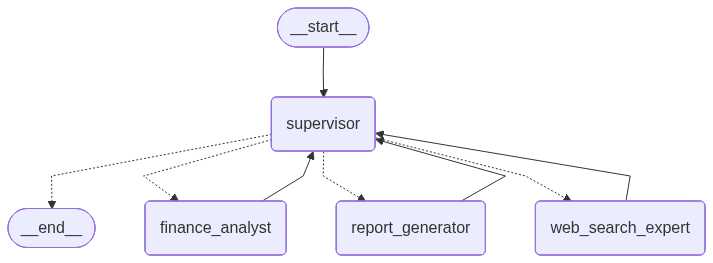
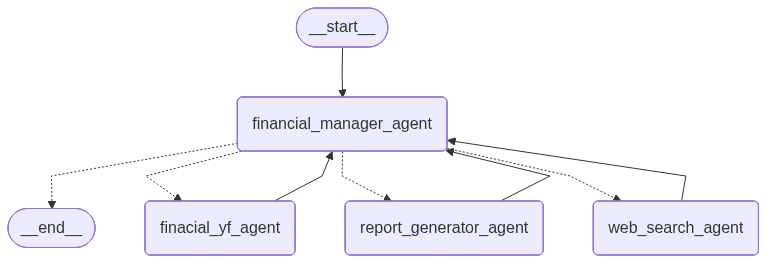
Superior-Agent

diff --git a/src/agent/agent.py b/src/agent/agent.py
@@ -2,6 +2,7 @@ from langchain_anthropic import ChatAnthropic
 # from langchain_ollama import ChatOllama
 from dotenv import load_dotenv
 from langgraph_supervisor import create_supervisor
+from langchain_core.runnables.graph import CurveStyle, MermaidDrawMethod, NodeStyles
 from langchain.agents import create_agent
 import os
 
@@ -54,25 +55,24 @@ model = ChatAnthropic(model=os.getenv("LLM_CHOICE"))
 # model = ChatOllama(model="qwen3:0.6b", temperature=0) # not better tool calling
 
 # Create specialized agents
-
 web_search_agent = create_agent(
     model=model,
     tools=[web_search_news],
-    name="web_search_expert",
+    name="web_search_agent",
     system_prompt=WEB_SEARCH_AGENT_PROMPT,
 )
 
 yahoo_finance_agent = create_agent(
     model=model,
     tools=[get_stock_price, get_stock_performance, get_financial_metrics],
-    name="finance_analyst",
+    name="finacial_yf_agent",
     system_prompt=YAHOO_FINANCE_AGENT_PROMPT,
 )
 
 report_generator_agent = create_agent(
     model=model,
     tools=[save_report_to_file],
-    name="report_generator",
+    name="report_generator_agent",
     system_prompt=REPORT_GENERATOR_AGENT_PROMPT,
 )
 
@@ -80,10 +80,28 @@ report_generator_agent = create_agent(
 workflow = create_supervisor(
     agents=[web_search_agent, yahoo_finance_agent, report_generator_agent],
     model=model,
-    prompt=SUPERVISOR_PROMPT
+    prompt=SUPERVISOR_PROMPT,
+    supervisor_name="financial_manager_agent"
+    
 )    
 
 def get_agent():
     """Get the compiled agent application"""
     app = workflow.compile()
+    try:
+        app.get_graph().draw_mermaid_png(
+            curve_style=CurveStyle.LINEAR,
+            node_colors=NodeStyles(
+                first="#FF6B6B",  # Vibrant red for start
+                last="#4ECDC4",  # Teal for end
+                default="#95E1D3",  # Mint green for regular nodes
+            ),
+            wrap_label_n_words=9,
+            output_file_path='graph.png',
+            background_color="white",
+            padding=20,
+        )
+    except Exception as e:
+        print(f"Could not generate graph image: {e}")
+        
     return app

diff --git a/src/prompts/agent_prompts.py b/src/prompts/agent_prompts.py
@@ -21,7 +21,6 @@ REPORT_GENERATOR_AGENT_PROMPT = (
     "You are a report compiler. Your only task is to organize all received data "
     "into a final structured report and save it.\n"
     "Always use the `save_report_to_file` tool to create the report.\n"
-    "Do not analyze or interpret — just compile, clean, and format.\n"
     "Output nothing except the final saved report confirmation.\n"
     "Always call `save_report_to_file`."
 )
@@ -30,9 +29,9 @@ SUPERVISOR_PROMPT = (
     "You are the supervisor overseeing specialized agents for market research.\n"
     "Your role is to coordinate tasks between agents to generate a professional market intelligence report.\n"
     "Workflow:\n"
-    "1. Ask `web_search_expert` to collect recent market and company news.\n"
-    "2. Ask `finance_analyst` to gather stock prices, performance, and financial metrics.\n"
-    "3. Send all gathered data to `report_generator` to create and save the final report.\n"
+    "1. Ask `web_search_agent` to collect recent market and company news.\n"
+    "2. Ask `finacial_yf_agent` to gather stock prices, performance, and financial metrics.\n"
+    "3. Send all gathered data to `report_generator_agent` to create and save the final report.\n"
     "Force all agents to use their respective tools; never perform tasks yourself.\n"
     "End the workflow once the report is saved successfully."
 )

diff --git a/src/agent/api/api.py b/src/agent/api/api.py
@@ -1,6 +1,5 @@
 from fastapi import FastAPI, HTTPException
 from pydantic import BaseModel
-from langchain_core.runnables.graph import CurveStyle, MermaidDrawMethod, NodeStyles
 import logging
     
 try:
@@ -24,26 +23,9 @@ logger = logging.getLogger(__name__)
 class AnalysisRequest(BaseModel):
     query: str
 
-os.makedirs("output", exist_ok=True)
 
 # Initialize agent app
 agent_app = get_agent()
-
-try:
-    agent_app.get_graph().draw_mermaid_png(
-        curve_style=CurveStyle.LINEAR,
-        node_colors=NodeStyles(
-            first="#FF6B6B",  # Vibrant red for start
-            last="#4ECDC4",  # Teal for end
-            default="#95E1D3",  # Mint green for regular nodes
-        ),
-        wrap_label_n_words=9,
-        output_file_path='graph.png',
-        background_color="white",
-        padding=20,
-    )
-except Exception as e:
-    print(f"Could not generate graph image: {e}")
 
 
 @app.get("/")

diff --git a/output/stock_report_TCS_20251026_184903.md b/output/stock_report_TCS_20251026_184903.md
@@ -1,0 +1,81 @@
+# Comprehensive Analysis Report: Tata Consultancy Services (TCS)
+
+## Executive Summary
+Tata Consultancy Services (TCS) continues to maintain its position as a leading global IT services provider, demonstrating resilience in challenging market conditions while pursuing strategic growth initiatives in emerging technologies.
+
+## Financial Performance Overview
+- Q3 FY2024 Revenue: $7.28 billion (2.9% YoY growth)
+- Constant Currency Growth: 1.7%
+- Notable Growth in Indian Market: 23.4%
+
+## Business Environment Analysis
+
+### Current Challenges
+1. **Macroeconomic Headwinds**
+   - Economic slowdowns in key markets (US and Europe)
+   - Impact on IT sector spending
+   - Declining revenues in BFSI segment
+
+2. **Competitive Landscape**
+   - Intense competition from peers like Infosys and Wipro
+   - Pressure on pricing and margins
+   - Need for continuous innovation
+
+### Key Strengths
+1. **Market Position**
+   - Leading position in emerging markets
+   - Strong brand recognition
+   - Robust client relationships
+
+2. **Operational Excellence**
+   - Strong order book and deal momentum
+   - Successful diversification strategy
+   - Efficient delivery model
+
+## Growth Drivers
+
+### Technology Focus
+1. **Cloud Services**
+   - Growing demand for cloud transformation
+   - Comprehensive suite of cloud solutions
+   - Strategic partnerships with major cloud providers
+
+2. **Emerging Technologies**
+   - Significant investments in Generative AI
+   - Innovation focus in blockchain and IoT
+   - Digital transformation capabilities
+
+### Geographic Expansion
+- Strong performance in emerging markets
+- Particularly robust growth in India (23.4%)
+- Strategic focus on market diversification
+
+## Market Outlook
+
+### Short-term Outlook
+- Muted growth expectations due to macroeconomic challenges
+- Focus on operational efficiency
+- Continued investment in emerging technologies
+
+### Long-term Prospects
+- Positive growth trajectory expected
+- Strong order book supporting future growth
+- Strategic positioning in high-growth segments
+- Focus on cloud and AI as future growth catalysts
+
+## Investment Considerations
+
+### Strengths
+- Strong financial position
+- Market leadership
+- Technology innovation
+- Geographic diversification
+
+### Risk Factors
+- Global economic uncertainties
+- Industry competition
+- Currency fluctuations
+- Regulatory changes
+
+## Conclusion
+Despite current macroeconomic challenges, TCS maintains a strong market position with robust fundamentals. The company's focus on emerging technologies, particularly in cloud and AI, positions it well for future growth. While near-term headwinds exist, the long-term outlook remains positive, supported by a strong order book and strategic initiatives in high-growth areas.
